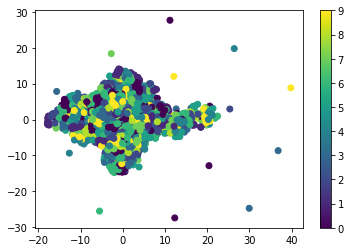
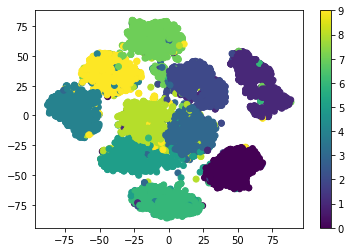
fixing the latent space

diff --git a/assignment8/run.py b/assignment8/run.py
@@ -100,7 +100,6 @@ first_embedding = True
 for input, target, char_class in images_to_embed:
     embedding = model.encode(input, training = False)
     embedding = embedding.numpy()
-    embedding = TSNE(n_components=2, learning_rate='auto', init='random').fit_transform(embedding)
     if first_embedding:
         embeddings = embedding.copy()
         classes = char_class.numpy().copy()
@@ -109,6 +108,7 @@ for input, target, char_class in images_to_embed:
         embeddings = np.concatenate((embeddings, embedding), axis = 0)
         classes = np.concatenate((classes, char_class.numpy()), axis = 0)
 embeddings = np.array(embeddings)
+embeddings = TSNE(n_components=2, learning_rate='auto', init='random').fit_transform(embeddings)
 plt.figure()
 plt.scatter(embeddings[:,0], embeddings[:,1], c = classes, cmap = 'viridis')
 plt.colorbar()
